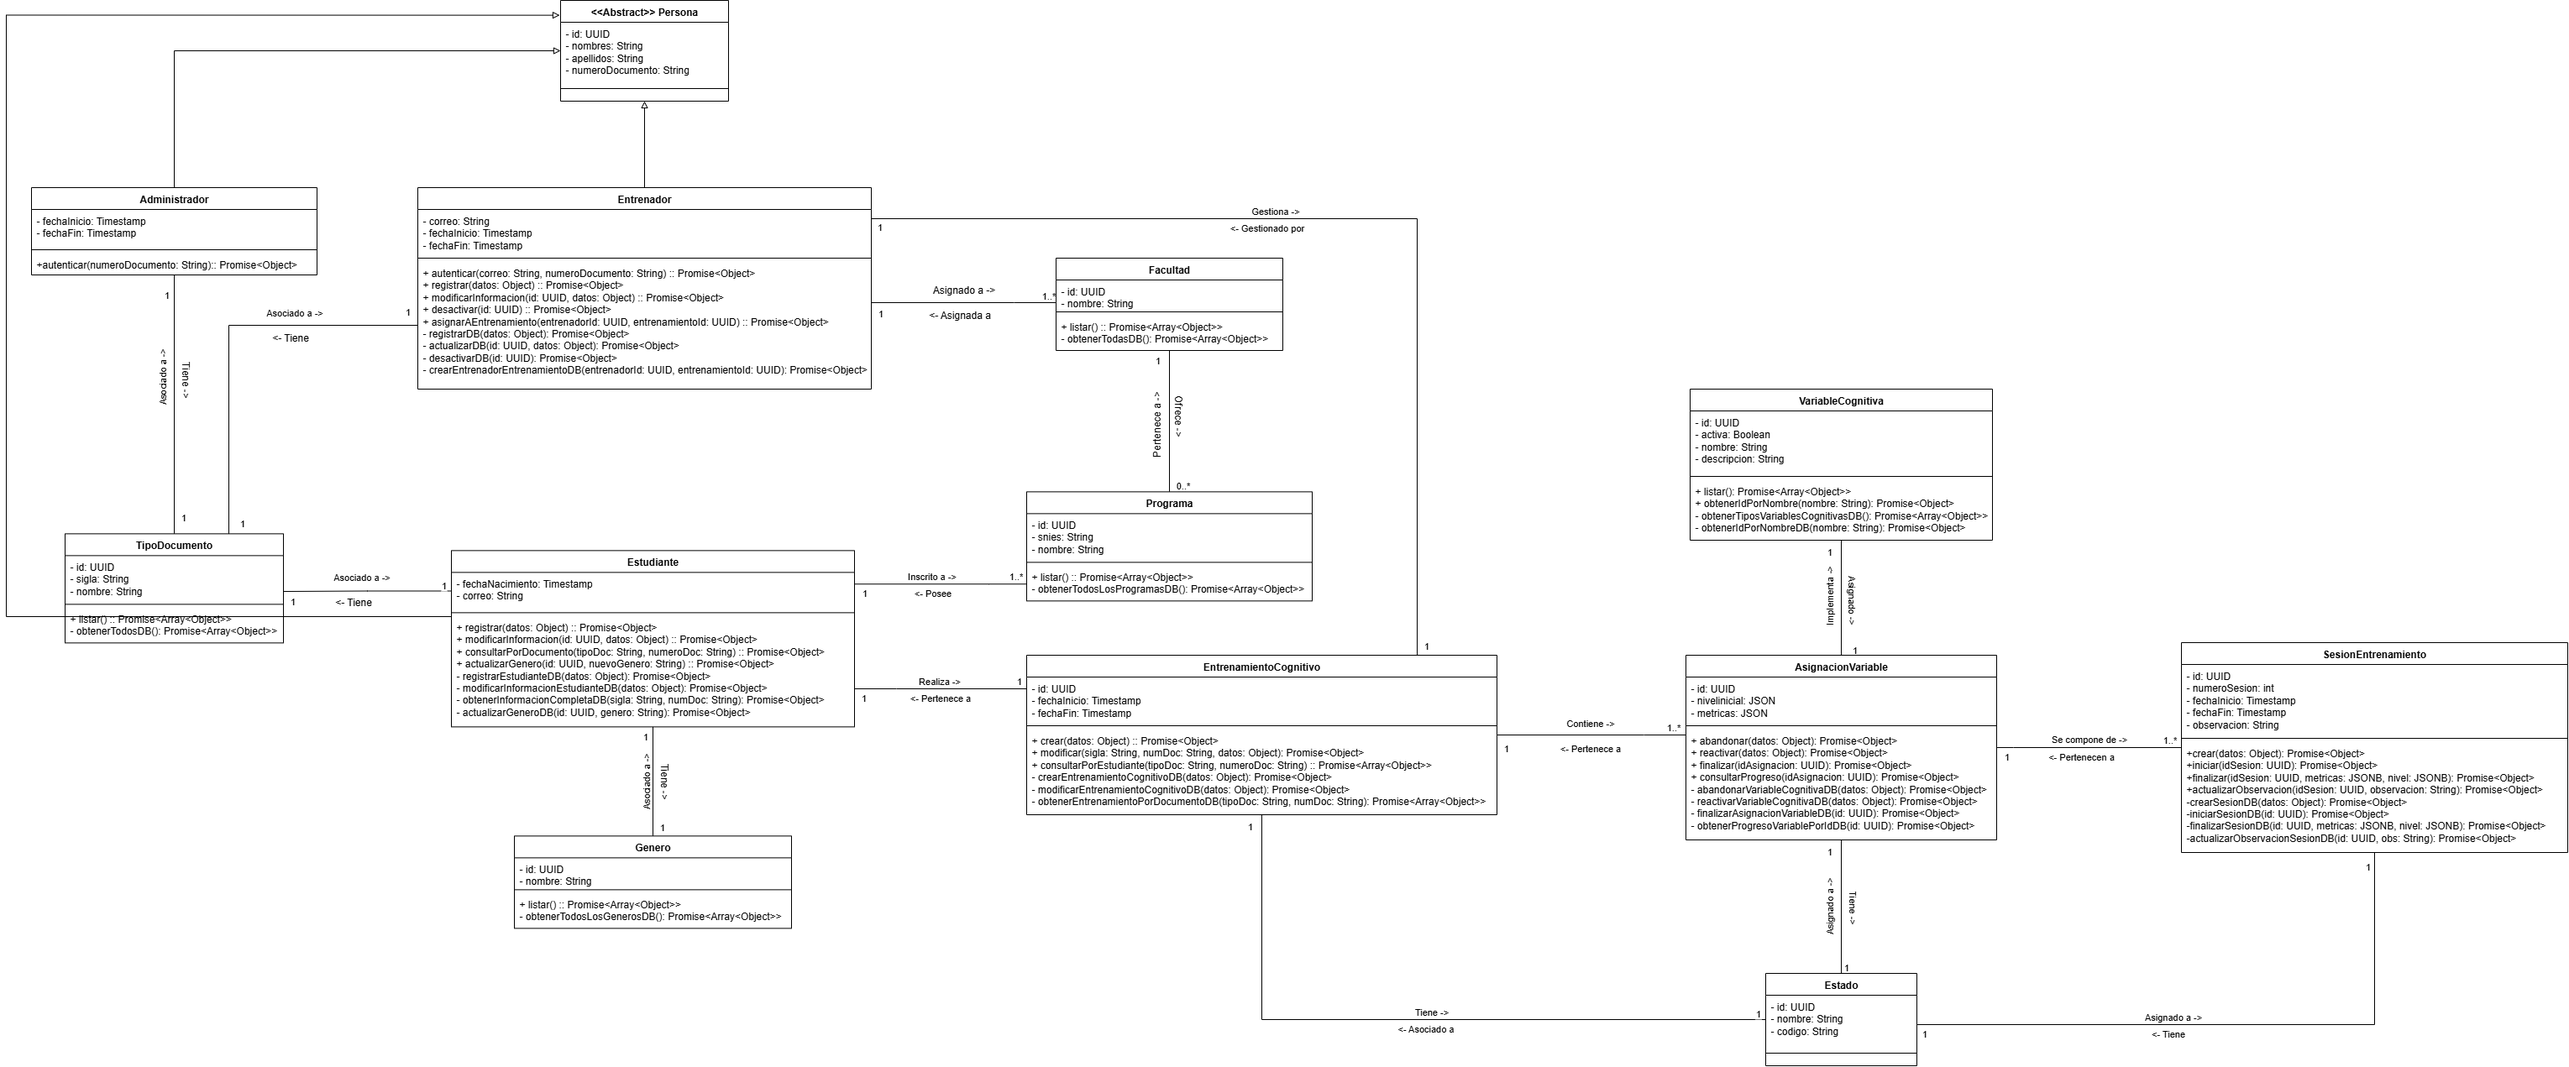
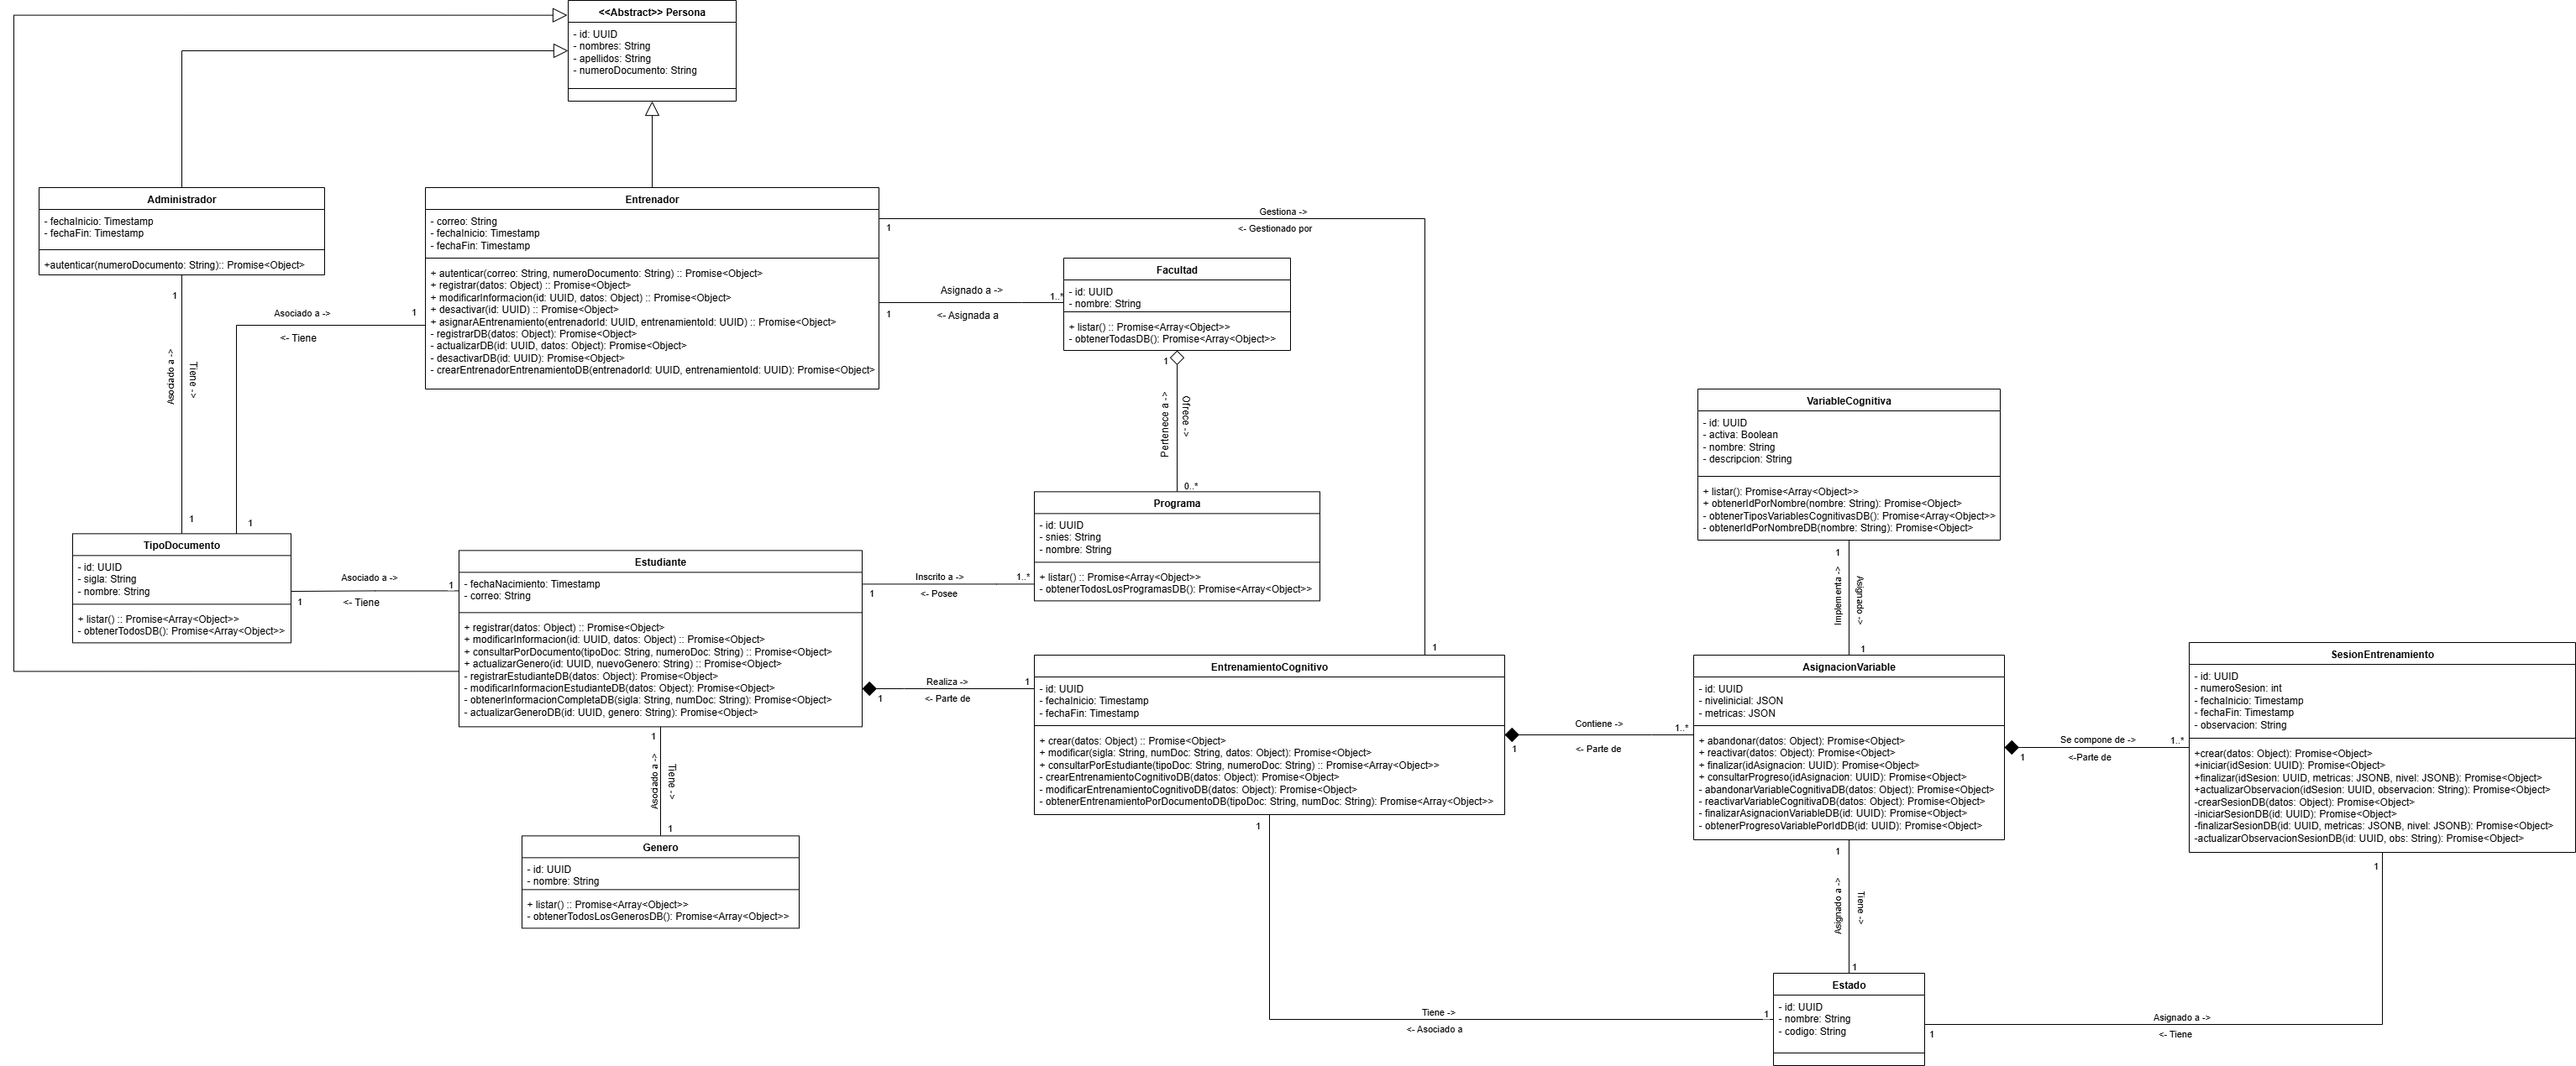
Diagrama de Clases

diff --git a/DiseñoTacticoDetallado/4.2. Diagrama de Clases.md b/DiseñoTacticoDetallado/4.2. Diagrama de Clases.md
@@ -1,0 +1,7 @@
+# Diagrama de Clases
+
+![DiagramaClases](/Imagenes/DiagramaClases.png)
+
+## Justificación del Diagrama de Clases como Modelo Conceptual
+
+El presente diagrama de clases ha sido diseñado como una **representación conceptual del dominio del negocio** y no como un reflejo literal de la estructura de código del proyecto. Aunque el proyecto, desarrollado en Node.js, sigue un paradigma funcional y modular sin utilizar la sintaxis de `class`, el uso de un diagrama de clases UML es una práctica estándar y valiosa para modelar la estructura lógica del sistema.
